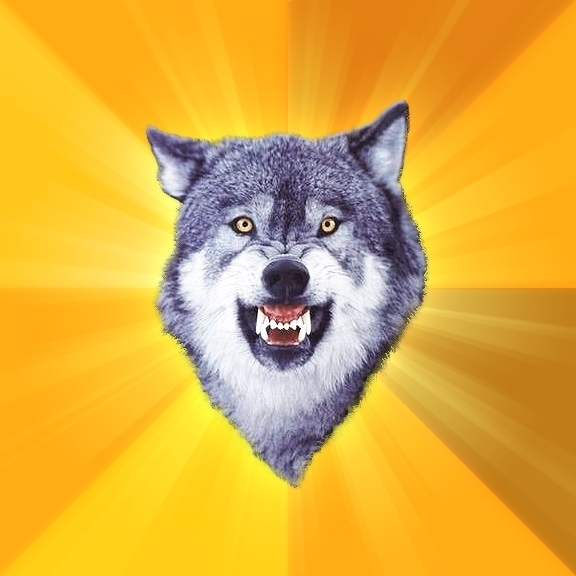
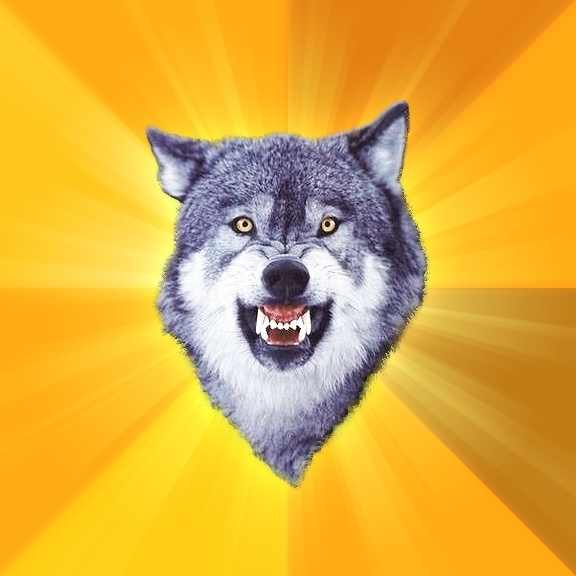
Decreased the quality of a bunch of the images, there's no reason these templates should be 200kb.

diff --git a/web/static/html/index.html b/web/static/html/index.html
@@ -36,8 +36,8 @@
       <a href='#' id='fry-back-button' class='back-button'>
         <img src='images/xicon.png' class='back-button'/>
       </a>
-      <img id='fry-thumb' src='images/thumbs/fry.png' class='meme-thumb'/>
-      <img id='fry-image' src='images/fry.png' class='meme-image'/>
+      <img id='fry-thumb' src='images/thumbs/fry.jpg' class='meme-thumb'/>
+      <img id='fry-image' src='images/fry.jpg' class='meme-image'/>
       <canvas id='fry-canvas' class='editor-canvas'></canvas>
       <div id='fry-inputs-container' class='fm-inputs-container'>
         <input id='fry-top' class='fm-top-text' value='top text' type='text'/>
@@ -92,8 +92,8 @@
       <a href='#' id='scumbagbrain-back-button' class='back-button'>
         <img src='images/xicon.png' class='back-button'/>
       </a>
-      <img id='scumbagbrain-thumb'src='images/thumbs/scumbagbrain.png' class='meme-thumb'/>
-      <img id='scumbagbrain-image'src='images/scumbagbrain.png' class='meme-image'/>
+      <img id='scumbagbrain-thumb'src='images/thumbs/scumbagbrain.jpg' class='meme-thumb'/>
+      <img id='scumbagbrain-image'src='images/scumbagbrain.jpg' class='meme-image'/>
       <canvas id='scumbagbrain-canvas' class='editor-canvas'></canvas>
       <div id='scumbagbrain-inputs-container' class='fm-inputs-container'>
         <input id='scumbagbrain-top' class='fm-top-text' value='top text' type='text'/>
